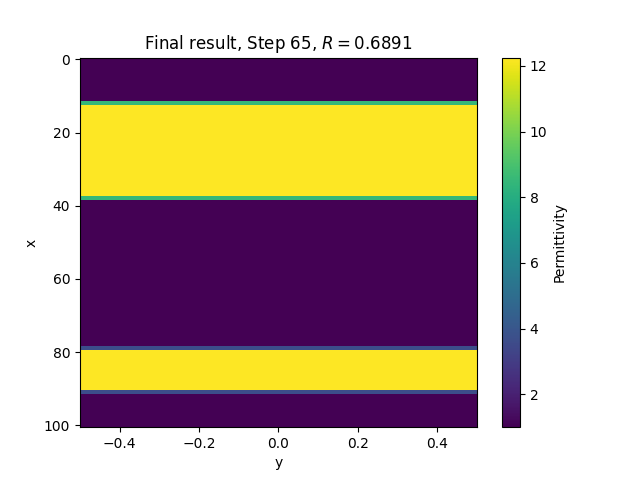
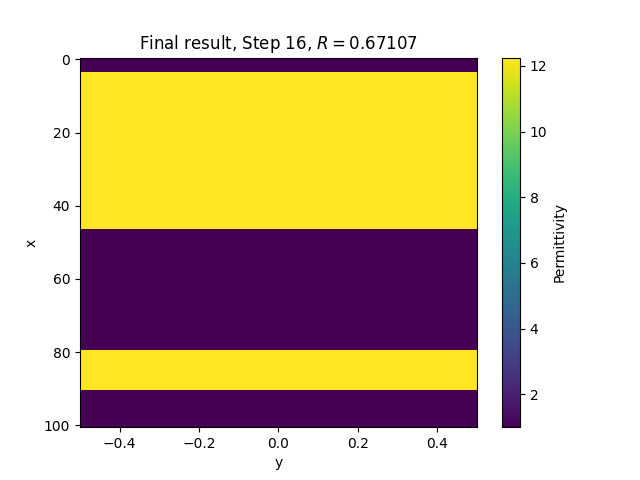
Optimisation fixes

diff --git a/grcwa/optimisation/non_nlopt/width_for_R.py b/grcwa/optimisation/non_nlopt/width_for_R.py
@@ -22,9 +22,11 @@ Optimisation parameters
 '''
 max_iterations = 1000
 step_size = 0.001
-precision = 10
-decimal_precision = 3
-num_identical=10
+
+precision = 10       # rounding gradient to 10^-precision before checking whether gradient is zero
+
+decimal_precision = 3 # rounding the cost function before checking equivalence with previous step's cost
+num_identical=10      # for how any steps should the cost function be identical?
 
 '''
 Lattice cell parameters
@@ -73,17 +75,17 @@ def w_filled(Nx,Ny,d,dy,x1,x2,w1,w2):
     y0 = np.linspace(0,dy,Ny)
     x, y = np.meshgrid(x0,y0, indexing='ij')
 
-    # Need to add factor d/2*(Nx-1) as the x-positions in the meshgrid are the centers of bins, not actual bins. The bins have width d/(Nx-1)
-    filter = (abs(x - x1) + (d/(2*(Nx-1))) <= w1/2) | (abs(x-x2) + (d/(2*(Nx-1))) <= w2/2)
-    cell_geometry = np.ones((Nx,Ny))*E_vacuum
-    cell_geometry[filter] = E_Si
+    filter1 = abs(x - x1) <= w1/2
+    filter2 = abs(x-x2) <= w2/2
+    cell_geometry = np.ones((Nx,Ny)) * E_vacuum
+    cell_geometry[filter1 | filter2] = E_Si
     # How many cells are filled?
-    w_filled_e1 = sum(ones[abs(x-x1) + (d/(2*(Nx-1))) <= w1/2]*d/(Nx-1))
-    w_filled_e2 = sum(ones[abs(x-x2) + (d/(2*(Nx-1))) <= w2/2]*d/(Nx-1))
+    w_filled_e1 = sum(ones[filter1]*d/(Nx-1))
+    w_filled_e2 = sum(ones[filter2]*d/(Nx-1))
 
     # Calculate boundary permittivities using width proportion unaccounted for
-    eps1 = (E_Si - E_SiO2)*(w1-w_filled_e1)/(2*d/(Nx-1))
-    eps2 = (E_Si - E_SiO2)*(w2-w_filled_e2)/(2*d/(Nx-1))
+    eps1 = (E_Si - E_vacuum)*(w1-w_filled_e1)/(2*d/(Nx-1)) + E_vacuum
+    eps2 = (E_Si - E_vacuum)*(w2-w_filled_e2)/(2*d/(Nx-1)) + E_vacuum
 
     # Find boundary indices
     cell_geom_1d = cell_geometry[:,0]
@@ -205,6 +207,7 @@ fig1, ax1 = plt.subplots()
 # Define loop to move in direction of grad until maximum is reached
 while index <= max_iterations:
     cell_geometry = get_cell_geometry(vars,Nx,Ny,d,dy,x1,x2)
+    old_grad = grad
     cost_val = fun_grad(vars)
     outputs.append(cost_val)
 
@@ -233,12 +236,15 @@ while index <= max_iterations:
         break
 
     
-
+    
+    old_cost = cost_val
+    old_vars = vars
     # Change vars using grad
-    norm_grad = np.array(grad) / np.sqrt(np.sum(np.array(grad)**2))
-    vars = vars + step_size*norm_grad
-    # vars = vars + step_size*np.array(grad)
+    vars = vars + step_size*np.array(grad)
     cost_val = fun_grad(vars)
+
+    if old_cost > cost_val:
+        step_size = 0.9*step_size
     
     index += 1
 

diff --git a/grcwa/optimisation/nlopt_width_for_force.py b/grcwa/optimisation/nlopt_width_for_force.py
@@ -17,7 +17,7 @@ Discretisation values
 # Truncation order
 nG = 30
 # Resolution 
-Nx = 101
+Nx = 161
 Ny = 1
 
 '''
@@ -66,17 +66,18 @@ def w_filled(Nx,Ny,d,dy,x1,x2,w1,w2):
     y0 = np.linspace(0,dy,Ny)
     x, y = np.meshgrid(x0,y0, indexing='ij')
 
+    half_bin_width = d/(2*(Nx-1))
     # Need to add factor d/2*(Nx-1) as the x-positions in the meshgrid are the centers of bins, not actual bins. The bins have width d/(Nx-1)
-    filter = (abs(x - x1) + (d/(2*(Nx-1))) <= w1/2) | (abs(x-x2) + (d/(2*(Nx-1))) <= w2/2)
+    filter = (abs(x - x1) + half_bin_width <= w1/2) | (abs(x-x2) + half_bin_width <= w2/2)
     cell_geometry = np.ones((Nx,Ny))*E_vacuum
     cell_geometry[filter] = E_Si
     # How many cells are filled?
-    w_filled_e1 = sum(ones[abs(x-x1) + (d/(2*(Nx-1))) <= w1/2]*d/(Nx-1))
-    w_filled_e2 = sum(ones[abs(x-x2) + (d/(2*(Nx-1))) <= w2/2]*d/(Nx-1))
+    w_filled_e1 = sum(ones[abs(x-x1) + half_bin_width <= w1/2]*d/(Nx-1))
+    w_filled_e2 = sum(ones[abs(x-x2) + half_bin_width <= w2/2]*d/(Nx-1))
 
     # Calculate boundary permittivities using width proportion unaccounted for
-    eps1 = (E_Si - E_SiO2)*(w1-w_filled_e1)/(2*d/(Nx-1))
-    eps2 = (E_Si - E_SiO2)*(w2-w_filled_e2)/(2*d/(Nx-1))
+    eps1 = (E_Si - E_vacuum)*(w1-w_filled_e1)/(2*d/(Nx-1)) + E_vacuum
+    eps2 = (E_Si - E_vacuum)*(w2-w_filled_e2)/(2*d/(Nx-1)) + E_vacuum
 
     # Find boundary indices
     cell_geom_1d = cell_geometry[:,0]
@@ -215,7 +216,7 @@ def cost_function(vars,Qabs):
     print(pEn1_pTheta, numerical_partial)
 
 
-    return 2*(wavelength/d)*pEn1_pTheta - 2*e0 - (e1 + en1)*(1 + np.sqrt( 1 - (wavelength/d)**2 ))
+    return 2*(wavelength/d)*(-1)*pEn1_pTheta - 2*e0 - (e1 + en1)*(1 + np.sqrt( 1 - (wavelength/d)**2 ))
 # For animated figure ##############
 plt.ion()
 fig1, ax1 = plt.subplots()

diff --git a/grcwa/optimisation/non_nlopt/boundary_permittivity_for_R.py b/grcwa/optimisation/non_nlopt/boundary_permittivity_for_R.py
@@ -29,7 +29,7 @@ Ny = 1
 Optimisation parameters
 '''
 max_iterations = 1000
-step_size = 4
+step_size = 40
 precision = 10
 decimal_precision = 3
 num_identical=20
@@ -42,7 +42,7 @@ d = 1.8  # unit cell width
 dy = 1e-1
 x1 = 0.25*d # positions of blocks in unit cell
 x2 = 0.85*d 
-w1 = 0.35*d # width of blocks in unit cell
+w1 = 0.35*d # width of blocks in unit cell, 0.45d works for good optimum
 w2 = 0.15*d
 
 h = 0.5  # thickness of resonator layer
@@ -103,10 +103,10 @@ def get_cell_geometry(vars,Nx,Ny,d,dy,x1,x2):
     y0 = np.linspace(0,dy,Ny)
     x, y = np.meshgrid(x0,y0, indexing='ij')
 
-    # Need to add factor d/2*(Nx-1) as the x-positions in the meshgrid are the centers of bins, not actual bins. The bins have width d/(Nx-1)
-    filter = (abs(x - x1) + (d/(2*(Nx-1))) <= w1/2) | (abs(x-x2) + (d/(2*(Nx-1))) <= w2/2)
-    cell_geometry = np.ones((Nx,Ny))*E_vacuum
-    cell_geometry[filter] = E_Si
+    filter1 = abs(x - x1) <= w1/2
+    filter2 = abs(x-x2) <= w2/2
+    cell_geometry = np.ones((Nx,Ny)) * E_vacuum
+    cell_geometry[filter1 | filter2] = E_Si
 
     # Finding boundaries
     boundary_i = boundary_indices(cell_geometry)
@@ -114,7 +114,6 @@ def get_cell_geometry(vars,Nx,Ny,d,dy,x1,x2):
     upper_boundary = boundary_i[2:]
 
     # Change boundary permittivities
-    print(lower_boundary, upper_boundary)
     cell_geometry = cell_geometry.tolist()
     cell_geometry[lower_boundary[0]][0] = eps1
     cell_geometry[lower_boundary[1]][0] = eps1
@@ -285,8 +284,7 @@ while index <= max_iterations:
     cost_val = fun_grad(vars)
 
     if old_cost >= cost_val:
-        print("Optimum reached after {} steps. Terminating the loop...".format(index))
-        break
+        step_size = 0.9*step_size
 
     
     index += 1

diff --git a/grcwa/optimisation/wk10attempt/core.py b/grcwa/optimisation/wk10attempt/core.py
@@ -1,0 +1,45 @@
+import autograd.numpy as np
+
+def linear_boundary_geometry(Nx,Ny,d,dy,x1,x2,w1,w2):
+    ones = np.ones((Nx,Ny))
+
+    # Defining coordinate system
+    x0 = np.linspace(0,d,Nx)
+    y0 = np.linspace(0,dy,Ny)
+    x, y = np.meshgrid(x0,y0, indexing='ij')
+
+    filter1 = abs(x - x1) <= w1/2
+    filter2 = abs(x-x2) <= w2/2
+    cell_geometry = np.ones((Nx,Ny)) * E_vacuum
+    cell_geometry[filter1 | filter2] = E_Si
+    # How many cells are filled?
+    w_filled_e1 = sum(ones[filter1]*d/(Nx-1))
+    w_filled_e2 = sum(ones[filter2]*d/(Nx-1))
+
+    # Calculate boundary permittivities using width proportion unaccounted for
+    eps1 = (E_Si - E_vacuum)*(w1-w_filled_e1)/(2*d/(Nx-1)) + E_vacuum
+    eps2 = (E_Si - E_vacuum)*(w2-w_filled_e2)/(2*d/(Nx-1)) + E_vacuum
+
+    # Find boundary indices
+    cell_geom_1d = cell_geometry[:,0]
+    boundary_indices = []
+    for i in range(1,len(cell_geom_1d)-1):
+        lower_neighbor = cell_geom_1d[i-1]
+        current = cell_geom_1d[i]
+        upper_neighbor = cell_geom_1d[i+1]
+        if (current <= E_Si and current > E_vacuum) and (lower_neighbor == E_Si or upper_neighbor == E_Si) and (lower_neighbor != upper_neighbor):
+            # then we are at a boundary
+            boundary_indices.append(i)
+
+    lower_boundary = boundary_indices[0:2]
+    upper_boundary = boundary_indices[2:]
+
+    # Change boundary permittivities
+    cell_geometry = cell_geometry.tolist()
+    cell_geometry[lower_boundary[0]][0] = eps1
+    cell_geometry[lower_boundary[1]][0] = eps1
+    cell_geometry[upper_boundary[0]][0] = eps2
+    cell_geometry[upper_boundary[1]][0] = eps2
+    cell_geometry = np.array(cell_geometry)
+
+    return cell_geometry, eps1, eps2

diff --git a/grcwa/optimisation/nlopt_width_for_R.py b/grcwa/optimisation/nlopt_width_for_R.py
@@ -66,17 +66,17 @@ def w_filled(Nx,Ny,d,dy,x1,x2,w1,w2):
     y0 = np.linspace(0,dy,Ny)
     x, y = np.meshgrid(x0,y0, indexing='ij')
 
-    # Need to add factor d/2*(Nx-1) as the x-positions in the meshgrid are the centers of bins, not actual bins. The bins have width d/(Nx-1)
-    filter = (abs(x - x1) + (d/(2*(Nx-1))) <= w1/2) | (abs(x-x2) + (d/(2*(Nx-1))) <= w2/2)
-    cell_geometry = np.ones((Nx,Ny))*E_vacuum
-    cell_geometry[filter] = E_Si
+    filter1 = abs(x - x1) <= w1/2
+    filter2 = abs(x-x2) <= w2/2
+    cell_geometry = np.ones((Nx,Ny)) * E_vacuum
+    cell_geometry[filter1 | filter2] = E_Si
     # How many cells are filled?
-    w_filled_e1 = sum(ones[abs(x-x1) + (d/(2*(Nx-1))) <= w1/2]*d/(Nx-1))
-    w_filled_e2 = sum(ones[abs(x-x2) + (d/(2*(Nx-1))) <= w2/2]*d/(Nx-1))
+    w_filled_e1 = sum(ones[filter1]*d/(Nx-1))
+    w_filled_e2 = sum(ones[filter2]*d/(Nx-1))
 
     # Calculate boundary permittivities using width proportion unaccounted for
-    eps1 = (E_Si - E_SiO2)*(w1-w_filled_e1)/(2*d/(Nx-1))
-    eps2 = (E_Si - E_SiO2)*(w2-w_filled_e2)/(2*d/(Nx-1))
+    eps1 = (E_Si - E_vacuum)*(w1-w_filled_e1)/(2*d/(Nx-1)) + E_vacuum
+    eps2 = (E_Si - E_vacuum)*(w2-w_filled_e2)/(2*d/(Nx-1)) + E_vacuum
 
     # Find boundary indices
     cell_geom_1d = cell_geometry[:,0]

diff --git a/grcwa/optimisation/wk10attempt/tidy.py b/grcwa/optimisation/wk10attempt/tidy.py
@@ -1,0 +1,2 @@
+from core import w_filled
+
